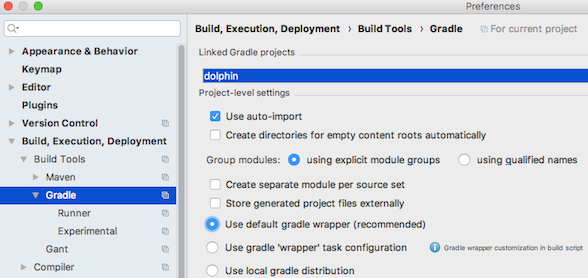
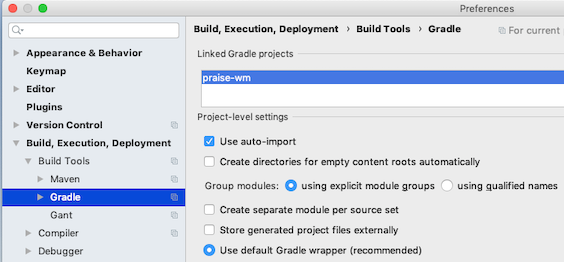
update readme documentation and some minor code cleanup

Changed region(s): [[0.0, 0.0, 1.0, 1.0], [0.8138, 0.7023, 0.9947, 0.7328], [0.7837, 0.6718, 0.8138, 0.7023]]

diff --git a/src/main/webapp/src/components/CardTable.vue b/src/main/webapp/src/components/CardTable.vue
@@ -79,8 +79,6 @@
 </template>
 
 <script lang="ts">
-  import isNil from 'lodash/isNil';
-
   import { Component, Prop, Vue } from 'vue-property-decorator';
 
   type OptionEntry = {
@@ -116,12 +114,12 @@
 
     perPage = -1;
 
-    filter = null;
+    filter = '';
 
     filteredRows: Array<Object> = [];
 
     get totalRowsForPagination() {
-      return isNil(this.filter) ? this.items.length : this.filteredRows.length;
+      return this.filter ? this.filteredRows.length : this.items.length;
     }
 
     get footingMessage() {

diff --git a/src/main/webapp/md-docgen/md-docgen.js b/src/main/webapp/md-docgen/md-docgen.js
@@ -13,9 +13,8 @@ const opn = require('opn');
 
 try {
   process.chdir('..');
-}
-catch (err) {
-  console.log('chdir: ' + err);
+} catch (err) {
+  console.log(`chdir: ${err}`);
 }
 
 const docsSrcDir = '../../../docs';

diff --git a/docs/IntelliJ_IDEA.md b/docs/IntelliJ_IDEA.md
@@ -9,15 +9,16 @@ To get more information on an option, or, if running on a different OS and are u
 If using a different IDE, similar options may be available.
 
 #### NOTE
-The project name **dolphin** and associated paths in the screen shots should be adjusted to the name of your project and the paths used when you downloaded the project into your sandbox.
+The project associated paths in the screen shots should be adjusted to the paths used when you downloaded the project into your sandbox.
 
 ## Table of Contents
 
 1.  [Gradle](#gradle)
 1.  [Java Code Formatting](#java-code-formatting)
+1.  [JavaScript](#javascript)
 1.  [Vue.js](#vuejs)
 1.  [ESLint](#eslint)
-1.  [Flow](#flow)
+1.  [TypeScript](#TypeScript)
 1.  [Webpack](#webpack)
 
 ### Gradle
@@ -59,73 +60,59 @@ The project name **dolphin** and associated paths in the screen shots should be 
 
     ![beforeCommit](./images/idea/beforeCommit.png)
 
+### JavaScript
+
+* Configure the JavaScript language version
+
+    ![javascript](./images/idea/javascript.png)
+
 ### VueJS
 
 * Add and enable the Plugin
 
     ![vuePlugin](./images/idea/vuePlugin.png)
+    
+* Remove annoying warnings on valid HTML empty element tags used in Vue templates
+    
+    ![vueEmptyTag](./images/idea/vueEmptyTag.png)
+
+### TypeScript
+
+* Enable the TypeScript language service
+
+![TypeScript](./images/idea/typescript.png)
+
+Configure your IDE so that it looks similar to the screenshot above.
+
+Windows: *The node file will have a .bat extension*
+
+Once TypeScript is configured, you can open the TypeScript tool window by selecting it from the Tool Windows menu
+
+![TypeScriptToolWindowSelection](./images/idea/tsWindowSelection.png)
+
+The TypeScript tool window can display any TypeScript errors that are created as you are writing code
+
+![TypeScriptToolWindow](./images/idea/tsPanel.png)
 
 ### ESLint
 
 ![ESLint](./images/idea/eslint.png)
 
-Configure your IDE so that it looks similar to the screenshot above.
-When you click on the browse button for *Node Interpreter* add a new entry by entering values similar to those you see below:
-
-![NodeInterpreters](./images/idea/nodeInterpreters.png)
-
-Windows: *The node file will have a .bat extension*
-
 If this feature is not enabled within IDEA, you will still see the ESLint errors as you develop, but you will not see the errors
 highlighted within the IDE.
 
-Your project's [.eslintrc.js][] file should already be configured to use the [Airbnb][] style guide rules.
+Your project's [.eslintrc.js][] file should already be configured to use the [Airbnb][] style guide along with Vue and TypeScript
+rules.
 
-After your IDE is properly configured, the editor should flag code that does not adhear to the style guide. The IDE is able to fix many of these problems for you automatically by selecting the following option from the editor's right-mouse-click menu when editing a .js file.
+After your IDE is properly configured, the editor should flag code that does not adhear to the rules. The IDE is able to fix many of these problems for you automatically by selecting the following option from the editor's right-mouse-click menu when editing a .ts file.
 ![FixESlint](./images/idea/eslintFix.png)
-The above option is only visible when editing a .js file, however, the same auto-fix process is run whenever you run a *yarn* task that build's the client code from either the command line:
+The above option is only visible when editing a .ts file, however, the same auto-fix process is run whenever you run a *yarn* task that build's the client code from either the command line:
 
     ./gradlew yarn_run_build
 
   Or from within the IDE:
 
   ![Yarn](./images/idea/yarn_task.png)
-
-### Flow
-
-Set the following to enable Flow support within the IDE
-
-Windows: *Specify a path to following Flow executable*
-
-    webapp/node_modules/.bin/flow.cmd
-  ![Flow](./images/idea/flow.png)
-
-Create an external tool group so that you can run Flow commands within IntelliJ
-
-  ![Flow](./images/idea/flowToolGroup.png)
-
-Start by creating an entry to run the Flow status command
-
-Windows: *Specify a path to following program*
-
-    webapp/node_modules/.bin/flow.cmd
-
-  ![Flow](./images/idea/flowStatusTool.png)
-
-Add the remaining Flow commands by creating identical entries except for the parameter:
-
-* --help
-* start
-* stop
-* suggest $FilePath$
-
-Use the *status* command to get a detailed Flow report on any Flow related errors in your project.
-This can be very valuable in fixing problems.
-
-Use the *suggest* command on a specific file to get information from Flow on how you can add types to the code.
-Flow can do a pretty good job of implicit type analysis and validation, so you probably do not want to explictly type everything, but it will provide valuable suggestions.
-
-The Flow server should start when you need it and stop when you exit IntelliJ, so there is usually not a need to use the start or stop commands.
 
 ### Webpack
 

diff --git a/docs/client_toolset.md b/docs/client_toolset.md
@@ -1,58 +1,57 @@
 # Client Toolset
 
+* [Vue CLI][] Standard Tooling for Vue.js Development
+
 * [Vue.js][] JavaScript Framework
 
 * [Vuex][] Centralized State Management for Vue.js
+
+* [TypeScript][] All client code is written in [TypeScript][], with [Vue class constuction][], [Vue property decorators][], and [Vuex binding helpers][].
 
 * [BootstrapVue][] Bootstrap 4 Components For Vue.js
 
 * [Vue Awesome][] [Font Awesome] component for Vue.js, using inline SVG.
 
-* [OpenLayers][] Mapping library.
+* [Vue Slider][] Slider component for Vue
+
+* [Vue Tippy][] For tooltips
+
+* [Vue Toasted][] For error messages
+
+* [Ace][] A high performance, embeddable, JavaScript code editor
+
+* [Lodash][] JavaScript utility library
 
 * [moment][] Parse, validate, manipulate, and display dates in javascript.
 
-* [Webpack][] Asset bundler with development server with hot reload
+* [OpenLayers][] Mapping library.
 
-* [Babel][] Transpiler for next generation JavaScript support
+* [Split.js][] A utility for creating resizable split views
 
-* [ESLint][] extended with [Airbnb][] to catch errors, and support best practices
+* [ESLint][] extended with [Airbnb][], [ESLint Plugin Vue][], and [ESLint Plugin TypeScript][] to catch errors, and support best practices
 
-* [Flow][] A static type checker for JavaScript
-
-* [UglifyJS2][] JavaScript minifier
-
-* [html-minifier][] HTML minifier
-
-* [cssnano][] CSS minifier
-
-* [Karma][] Unit testing
-
-* [Mocha][] Unit testing
-
-* [PhantomJS][] Unit testing
-
-* [Nightwatch.js][] End-to-End testing
-
-* [Selenium][] End-to-End testing
+* [Jest][] Unit testing
 
 [Vue.js]: https://vuejs.org/
 [Vuex]: https://github.com/vuejs/vuex
+[Vue CLI]: https://cli.vuejs.org/
+[TypeScript]: https://www.typescriptlang.org/
+[Vue class constuction]: https://github.com/vuejs/vue-class-component
+[Vue property decorators]: https://github.com/kaorun343/vue-property-decorator
+[Vuex binding helpers]: https://github.com/ktsn/vuex-class
 [BootstrapVue]: https://bootstrap-vue.github.io/
+[Vue Slider]: https://github.com/NightCatSama/vue-slider-component
+[Vue Tippy]: https://github.com/KABBOUCHI/vue-tippy
+[Vue Toasted]: https://github.com/shakee93/vue-toasted
 [Vue Awesome]: https://github.com/Justineo/vue-awesome
-[OpenLayers]: https://openlayers.org/
+[Ace]: https://ace.c9.io/
+[Lodash]: https://lodash.com/
 [moment]: https://github.com/moment/moment
+[OpenLayers]: https://openlayers.org/
+[Split.js]: https://split.js.org/
 [Font Awesome]: http://fontawesome.io/
-[Webpack]: https://webpack.js.org/
-[Babel]: https://babeljs.io/
 [ESLint]: http://eslint.org/
-[Flow]: https://flow.org/
+[ESLint Plugin Vue]: https://eslint.vuejs.org/
+[ESLint Plugin TypeScript]: https://github.com/typescript-eslint/typescript-eslint/tree/master/packages/eslint-plugin
 [Airbnb]: https://github.com/airbnb/javascript
-[UglifyJS2]: https://github.com/mishoo/UglifyJS2
-[html-minifier]: https://github.com/kangax/html-minifier
-[cssnano]: https://github.com/ben-eb/cssnano
-[Karma]: http://karma-runner.github.io/0.13/index.html
-[Mocha]: http://mochajs.org/
-[PhantomJS]: http://phantomjs.org/
-[Nightwatch.js]: http://nightwatchjs.org/
-[Selenium]: http://www.seleniumhq.org/
+[Jest]: https://jestjs.io/

diff --git a/docs/webpack_dev_server.md b/docs/webpack_dev_server.md
@@ -4,10 +4,10 @@ The following command will start the [WebPack DevServer][].
 
         ./gradlew yarn_run_dev
 
-You should not normally need to modify the WebPack configuration files. However, you will need to make the following modifications if you want to develop with the WebPack DevServer
+You should not normally need to modify the WebPack configuration. However, you will need to make the following modifications if you want to develop with the WebPack DevServer
 using SSL.
 
-* Edit [webapp/config/index.js][] and change the dev.proxyTable entries from *http* to *https* and *ws* to *wss*.
+* Edit [vue.config.js][] and change the devServer.proxy.target entries from *http* to *https* and *ws* to *wss*.
 
-[webapp/config/index.js]: ../src/main/webapp/config/index.js
+[vue.config.js]: ../src/main/webapp/vue.config.js
 [WebPack DevServer]: https://webpack.js.org/configuration/dev-server/

diff --git a/README.md b/README.md
@@ -75,7 +75,7 @@ To start a terminal console from within IntelliJ: View | Tool Windows | Terminal
 
 The [WebPack DevServer](docs/webpack_dev_server.md) configuration will need a minor adjustment to run praise-wm under SSL.
 
-JavaScript uses the [Airbnb Javascript Style Guide][].
+JavaScript uses the [Airbnb Javascript Style Guide][] and the [Vue.js Style Guide][].
 
 Java uses the [Google Java Style Guide][].
 
@@ -127,6 +127,7 @@ Run the following to display a list of all gradle tasks:
 
 [Gradle]: https://gradle.org/
 [Airbnb Javascript Style Guide]: https://github.com/airbnb/javascript
+[Vue.js Style Guide]: https://vuejs.org/v2/style-guide/
 [Google Java Style Guide]: https://google.github.io/styleguide/javaguide.html
 [Vue resources]: https://github.com/vuejs/awesome-vue
 [gradle.properties]: ./gradle.properties
